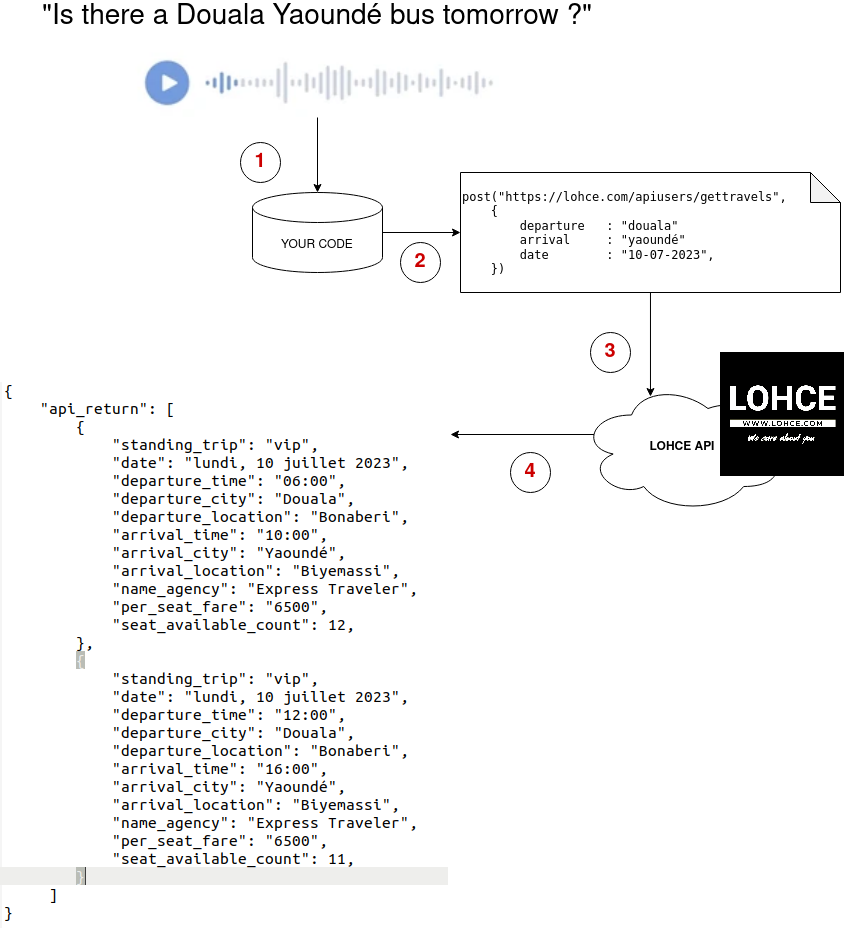
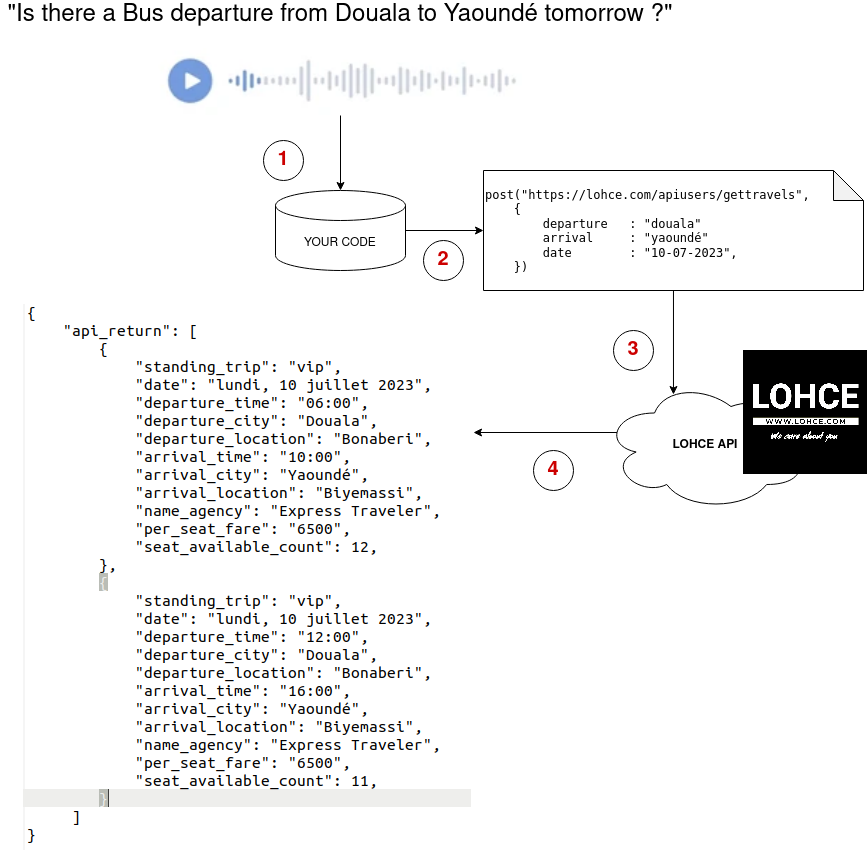
adding the voice files

diff --git a/README.md b/README.md
@@ -20,6 +20,30 @@ Here is the List of contestant for this first edition
 
 The winner of the Careathon will receive a cash prize of 25 000 FCFA and the prestigious title of the "Best Cameroonian Care developer".
 
+The winner will be the contestant with the highest score on 3 evaluation category: `functionality`, `robustness` and `code accessibility`.
+Your code will be rate over 100 on each of the above category 
+
+## Competition details
+
+- Your code will be publish as an opensource proget on a git repository
+- You must provide a documentation on how to install and test Your code4
+- Your code will be test using voices file provide below
+- Your code will be test on 3 ways: 
+
+| Judge | Evaluation category | details |
+| --------- | --------- | --------- |
+| LOHCE | Fonctionnality | Is Your code properly display the result from LOHCE API on the two input file |
+| OSS Cameroun | Code accessibility | How easy is it to install and test Your code |
+| Users | Robustness | Is Your code working on the same query input but from Yaoundé to Douala and with a different voice (Yours and a random people one) |
+
+Here are the input voice query
+
+| Query | Voice file |
+| --------- | --------- |
+| "Is there a bus departure from Douala to Yaounde tomorrow ?" | [english](song/query_voice_en.ogg)  |
+| "Y a-t-il un départ de bus de Douala à Yaoundé demain ?" | [french](song/query_voice_fr.ogg) |
+
+
 ## Topic of the competition
 
 The topic of the competition is to develop a query extration from a voice file and generate an API REQUEST to www.lohce.com API.
@@ -29,8 +53,6 @@ The topic of the competition is to develop a query extration from a voice file a
 ### Step 1
 
 Your code get the voice file as an input, here are links to two files that You will use as input to test and develope Your code.
-
-
 
 ### Step 2
 
@@ -42,7 +64,7 @@ Your code use a voice recognition technique (anyone) to extract the query and fo
     var date        = "10-07-2023";
 ```
 
-### Step 3 POST request to LOHCE API
+### Step 3
 
 Your code build an POST Request to LOHCE API at `https://lohce.com/apiusers/gettravels` to get the result of the query formulate in the query.
 
